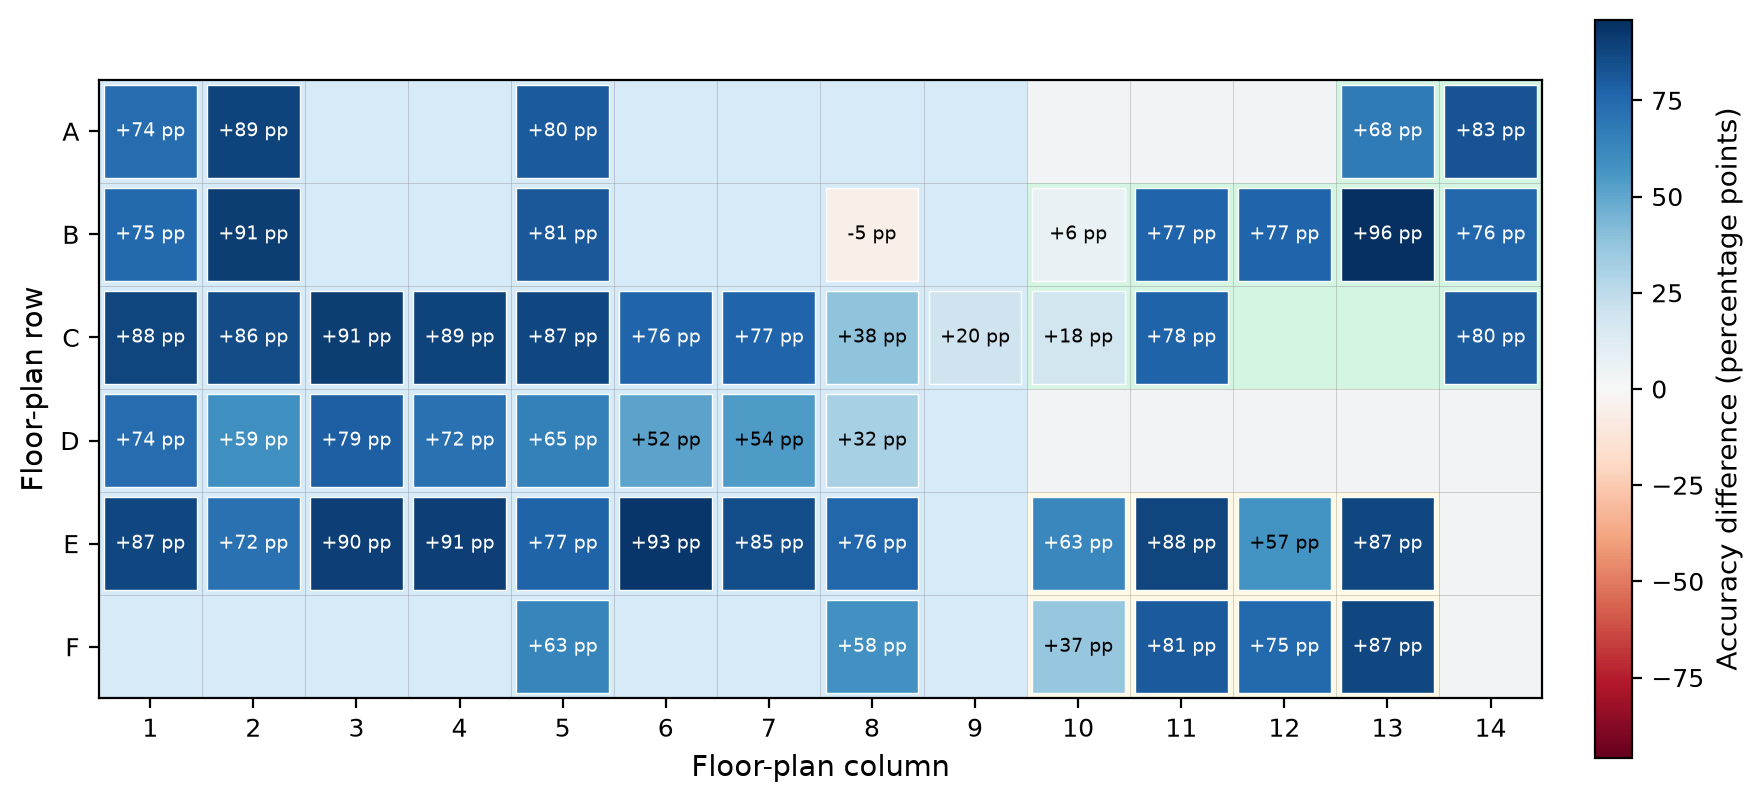
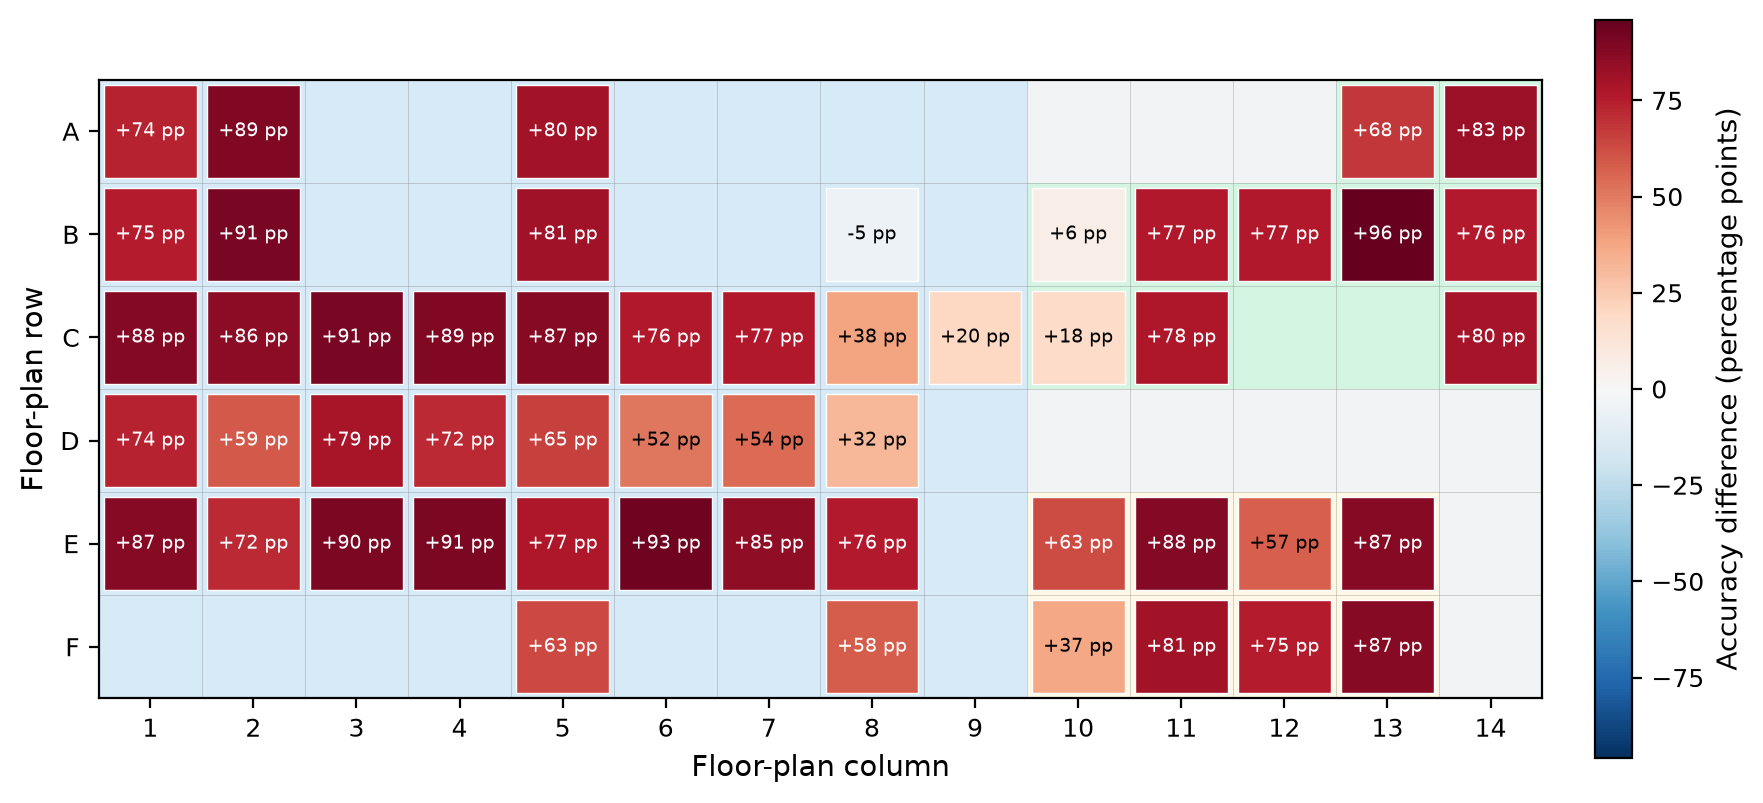
changes

diff --git a/utils/plots.py b/utils/plots.py
@@ -32,6 +32,10 @@ ROOM_PATCH_COLORS = {
 # for both, so low accuracy / high error share the dark end of their own map.
 FLOOR_PLAN_ACCURACY_CMAP = "viridis"
 FLOOR_PLAN_ERROR_CMAP = "viridis_r"
+# Diverging map for Block-minus-LOVO accuracy differences, reversed so a large
+# positive value (severe LOVO degradation relative to Block) reads as red, zero as
+# white, and LOVO outperforming Block as blue.
+FLOOR_PLAN_DIFF_CMAP = "RdBu_r"
 # Okabe-Ito colour-blind-safe qualitative palette (orange, sky blue, bluish green,
 # vermillion, blue, reddish purple) paired with distinct marker shapes so series
 # stay distinguishable without relying on colour alone.
@@ -325,8 +329,10 @@ def plot_floor_plan_heatmap(
     max_col = max(record["col_idx"] for record in records)
     n_rows = len(FLOOR_PLAN_ROWS)
     n_cols = max_col + 1
+    # Use the true maximum so the colour bar always spans every plotted cell; a
+    # percentile cap would visually clip outlier positions off the top of the scale.
     all_errors = [record["mean_error"] for record in records if not np.isnan(record["mean_error"])]
-    error_vmax = float(np.percentile(all_errors, 95)) if all_errors else 1.0
+    error_vmax = float(np.nanmax(all_errors)) if all_errors else 1.0
     metrics = [
         (
             "accuracy",
@@ -1132,7 +1138,7 @@ def plot_block_vs_lovo_accuracy_diff(
     fig = _render_floor_plan_panel(
         diff_records,
         metric_key="accuracy_diff_pp",
-        cmap_name="RdBu",
+        cmap_name=FLOOR_PLAN_DIFF_CMAP,
         norm=norm,
         metric_label="Accuracy difference (percentage points)",
         fmt_fn=lambda value: f"{value:+.0f} pp",
@@ -1192,7 +1198,7 @@ def plot_block_vs_lovo_floor_plan(
         (
             diff_records,
             "accuracy_diff_pp",
-            "RdBu",
+            FLOOR_PLAN_DIFF_CMAP,
             mcolors.TwoSlopeNorm(vmin=-diff_limit, vcenter=0.0, vmax=diff_limit),
             "Accuracy difference (pp)",
             lambda value: f"{value:+.0f} pp",
